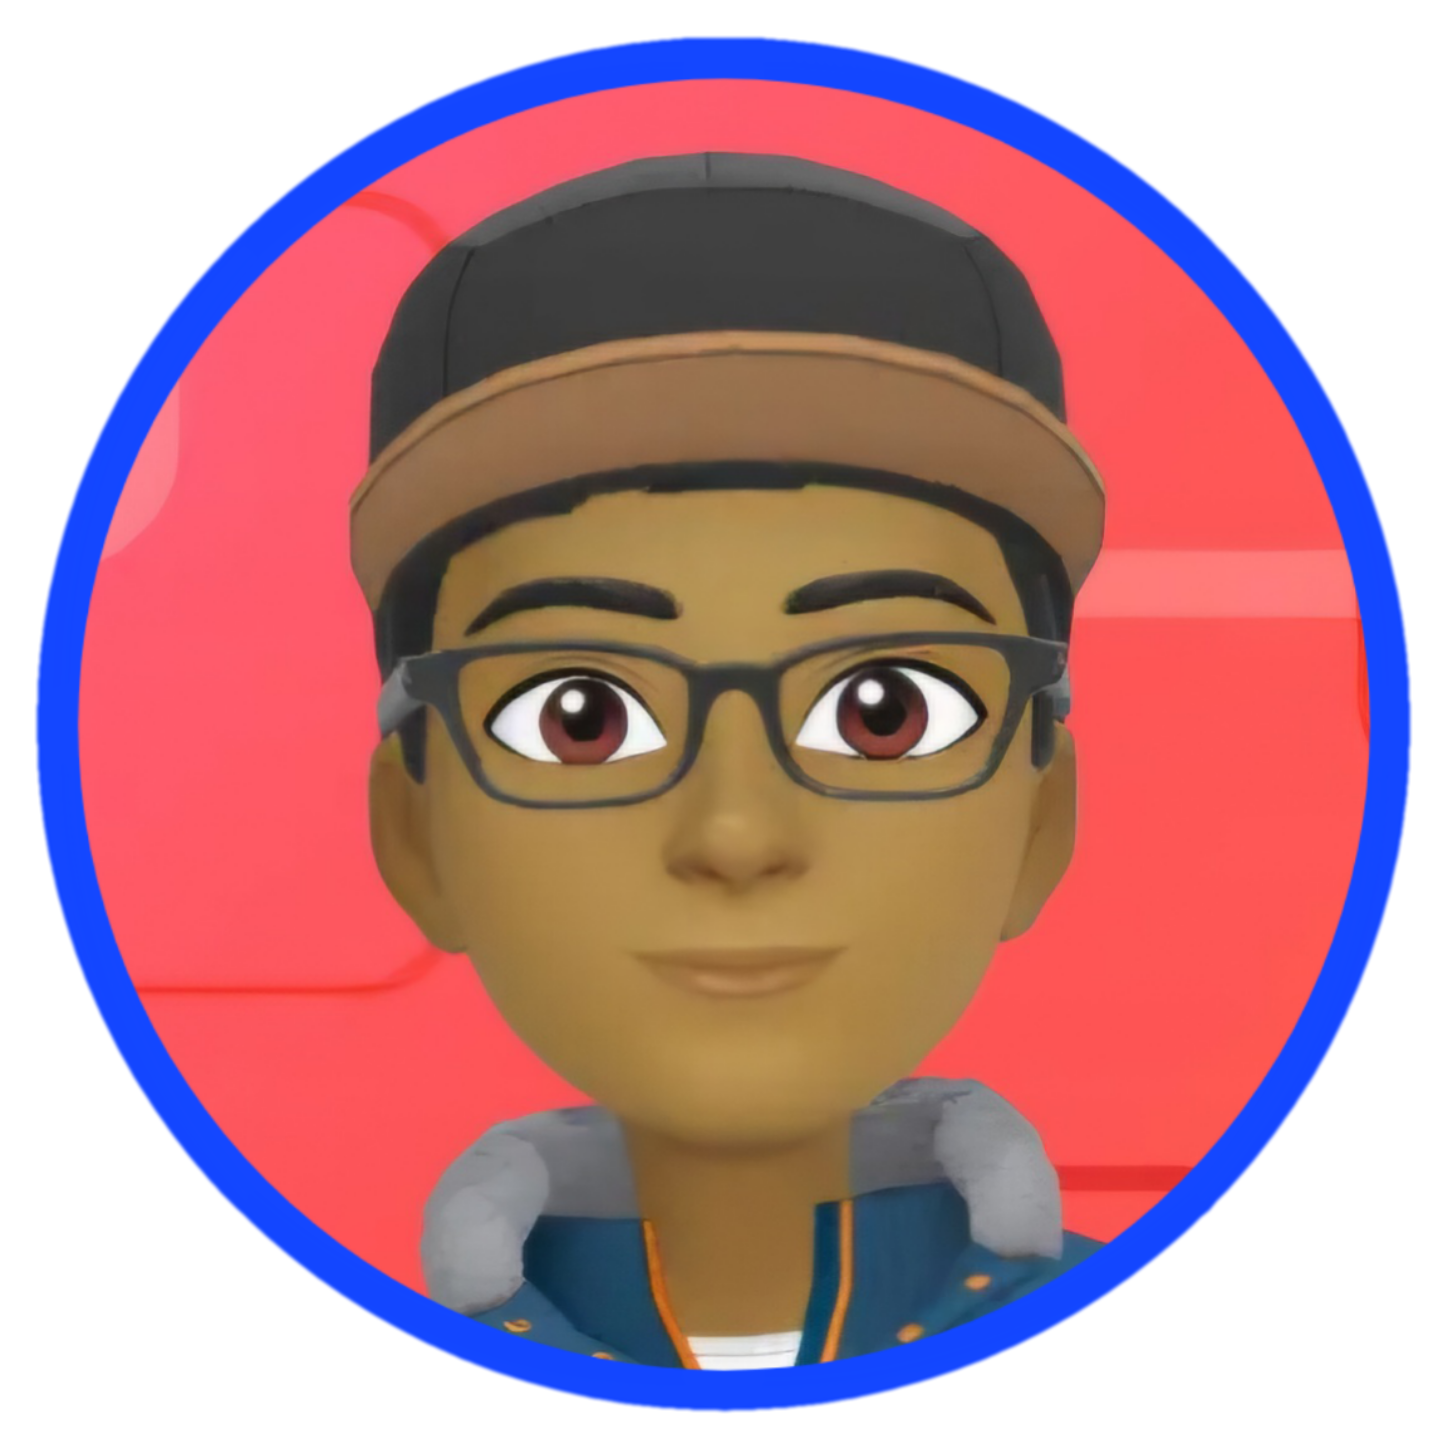
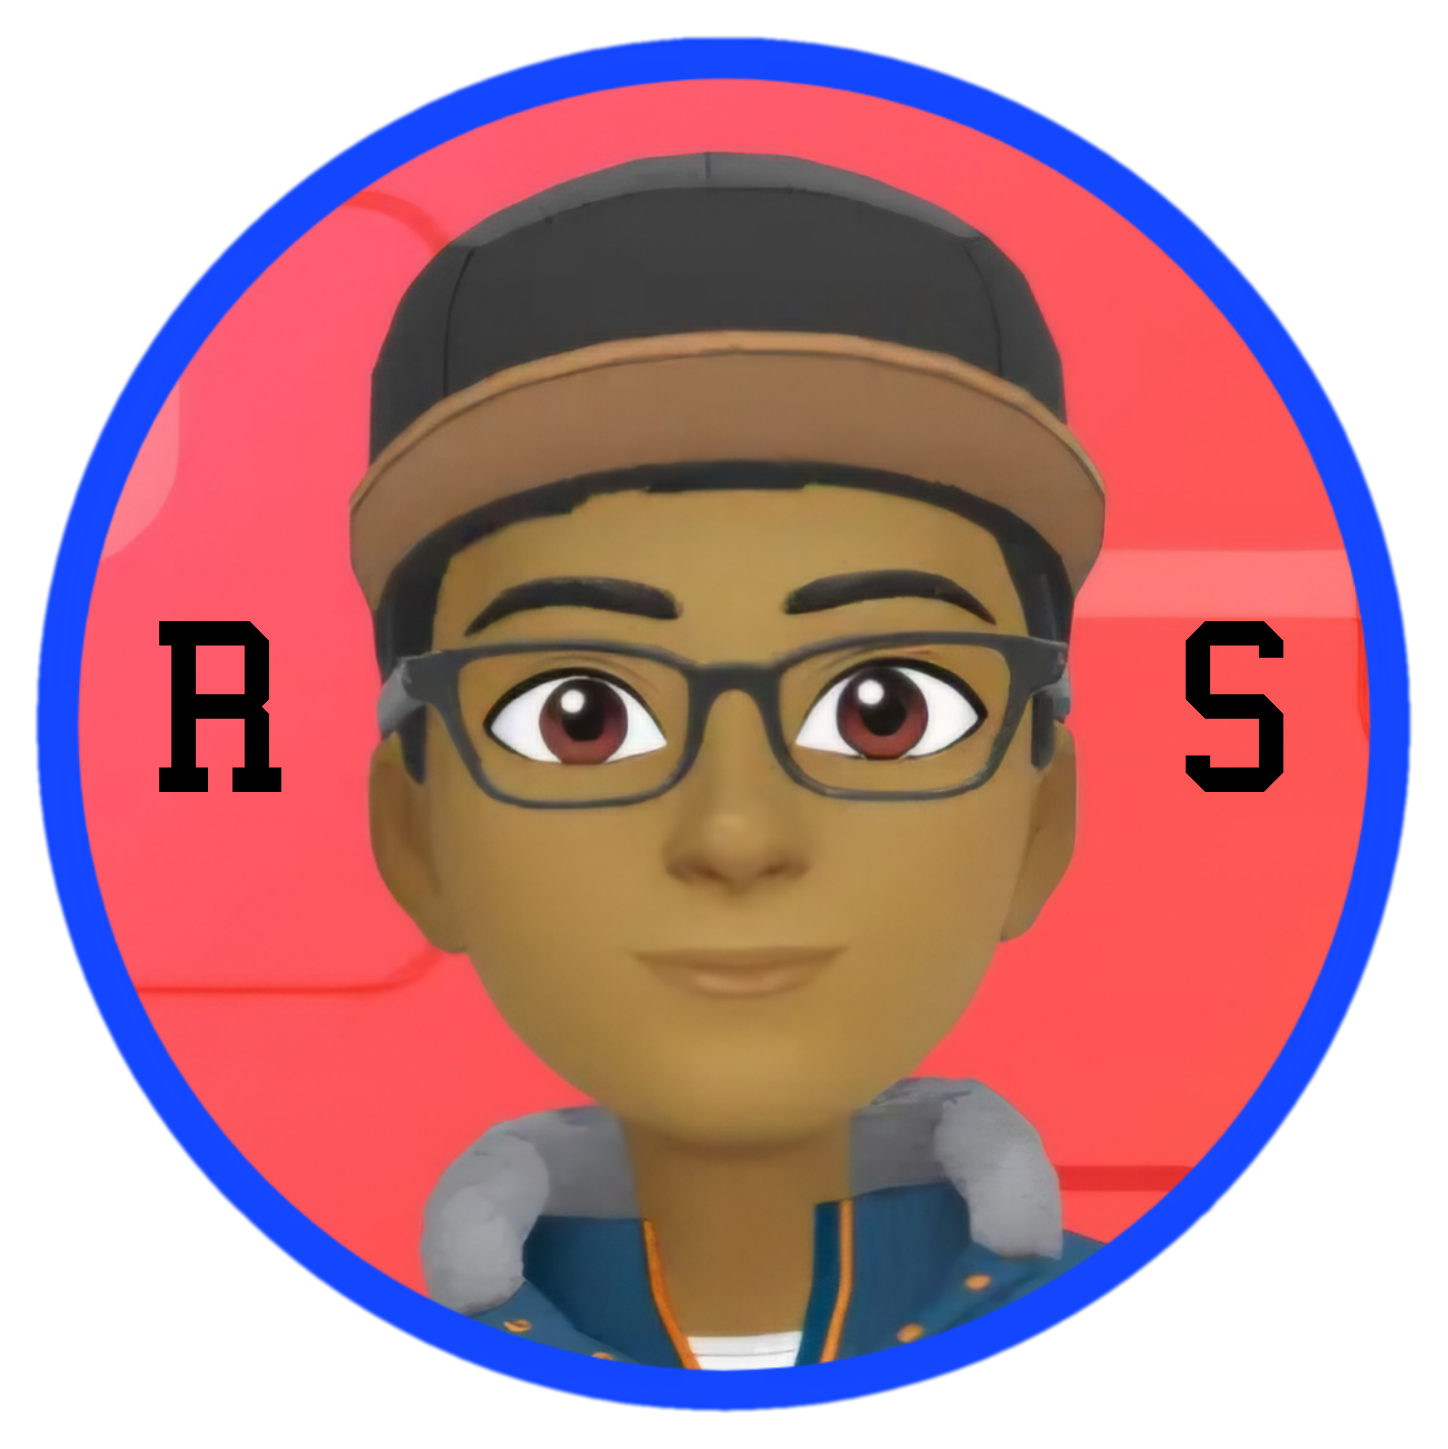
fifth commit

Changed region(s): [[0.0932, 0.4037, 0.2175, 0.559], [0.808, 0.4037, 0.9012, 0.559]]

diff --git a/index.html b/index.html
@@ -3,25 +3,11 @@
 <head>
     <meta charset="UTF-8">
     <meta name="viewport" content="width=device-width, initial-scale=1.0">
-    <title>Raj's Portfolio</title>
-    <link rel="stylesheet" href="Assignment1CSS.css">
+    <title>Raj's Portfolio</title><!--
+    <link rel="stylesheet" href="Assignment1CSS-Tablet.css">
+    <link rel="stylesheet" href="Assignment1CSS-Mobile.css">-->
+    <link rel="stylesheet" href="Assignment1CSS-FullScreen.css">
 
-    <style>
-        .logo {
-            width: 5%;
-            
-        }
-        .centered{
-            position: absolute;
-            top: 3%;
-            left: 8.2%;
-            font-size: 1rem;
-        }
-        .homeImage {
-            width: 10%;
-        }
-
-    </style>
 </head>
 <body>
     <header id = "header">
@@ -30,7 +16,6 @@
                     <a href="index.html" class = "btn">Home</a>
                     <a href="aboutMe.html" class = "btn">About Me</a>
 
-                    <div class = "centered"><pre>R     S</pre></div>
                     <img src="Snapchat-1173430696.png"  class = logo>
 
                     <a href="contactMe.html" class = "btn">Contact Me</a>
@@ -39,16 +24,17 @@
         </div>
     </header>
     <section id = "home">
-        <div class = "home container">
+        <div class = "homeContainer">
             <div>
                 <h2>Hello, My Name Is</h2>
                 <h1>Raj Sathiyakumar</h1>
             </div>
+            <img src="r.png" class = image>
         </div>
     </section>
 
     <footer id = "footer">
-        <div class = "footer container">
+        <div class = "footerContainer">
                 <img src="Snapchat-1173430696.png" class = "logo">
                 <h3>
                     Raj Sathiyakumar

diff --git a/Assignment1CSS-FullScreen.css b/Assignment1CSS-FullScreen.css
@@ -1,0 +1,81 @@
+@charset "UTF-8";
+
+@import "https://fonts.googleapis.com/css2?family=Oswald&display=swap";
+
+body{
+    background-color: rgb(249,218,120);
+    font-family: "Oswald",sans-serif;
+    font-size: 1.5rem;
+    padding: 0px;
+    margin: 0px;
+}
+
+#header {
+    position: fixed;
+    top: -0.3%;
+    left: 30%;
+    width: 100%;
+    height: auto;
+}
+
+#header .navBar {
+    width: 40%;
+    height: 10%;
+    background-color: rgb(249, 218, 120);
+    align-items: center;
+}
+
+#header .navBar .logo{
+    width: 10%;
+}
+
+.btn {
+    display:inline-block;
+    padding: 2% 5%;
+    background-color: rgb(255, 165, 0);
+    border: 4px solid rgb(0, 100, 200);
+    font-size: 1rem;
+    font-family: Impact, sans-serif;
+}
+
+.homeImage {
+    width: 10%;
+}
+
+.homeContainer {
+    height: 450px;
+    padding: 10% 30%;
+    background-color: aqua;
+}
+
+.homeContainer h1{
+    font-size: 3.5rem;
+    color: rgb(0, 150, 70);
+    text-align: center;
+    
+}
+
+.homeContainer h2{
+    font-size: 3rem;
+    color: blueviolet;
+    text-align: center;
+}
+
+.image{
+    width: 50%;
+    margin-left: 25%;
+}
+
+#footer .footerContainer {
+    background-color: coral;
+}
+#footer .footerContainer .logo{
+    width: 5%;
+    margin-left: 46.5%;
+}
+
+#footer .footerContainer h3{
+    font-size: 1.5rem;
+    color: green;
+    text-align: center;
+}

diff --git a/projects.html b/projects.html
@@ -10,12 +10,6 @@
             width: 5%;
             
         }
-        .centered{
-            position: absolute;
-            top: 3%;
-            left: 8.2%;
-            font-size: 1rem;
-        }
         .projImg {
             width: 5%;
         }
@@ -34,7 +28,6 @@
                     <a href="index.html" class = "btn">Home</a>
                     <a href="aboutMe.html" class = "btn">About Me</a>
 
-                    <div class = "centered"><pre>R     S</pre></div>
                     <img src="Snapchat-1173430696.png"  class = logo>
 
                     <a href="contactMe.html" class = "btn">Contact Me</a>

diff --git a/aboutMe.html b/aboutMe.html
@@ -13,12 +13,6 @@
             width: 5%;
             
         }
-        .centered{
-            position: absolute;
-            top: 3%;
-            left: 8.2%;
-            font-size: 1rem;
-        }
     </style>
 </head>
 <body>
@@ -28,7 +22,6 @@
                     <a href="index.html" class = "btn">Home</a>
                     <a href="aboutMe.html" class = "btn">About Me</a>
 
-                    <div class = "centered"><pre>R     S</pre></div>
                     <img src="Snapchat-1173430696.png"  class = logo>
 
                     <a href="contactMe.html" class = "btn">Contact Me</a>

diff --git a/contactMe.html b/contactMe.html
@@ -10,12 +10,6 @@
             width: 5%;
             
         }
-        .centered{
-            position: absolute;
-            top: 3%;
-            left: 8.2%;
-            font-size: 1rem;
-        }
     </style>
 </head>
 <body>
@@ -25,7 +19,6 @@
                     <a href="index.html" class = "btn">Home</a>
                     <a href="aboutMe.html" class = "btn">About Me</a>
 
-                    <div class = "centered"><pre>R     S</pre></div>
                     <img src="Snapchat-1173430696.png"  class = logo>
 
                     <a href="contactMe.html" class = "btn">Contact Me</a>
